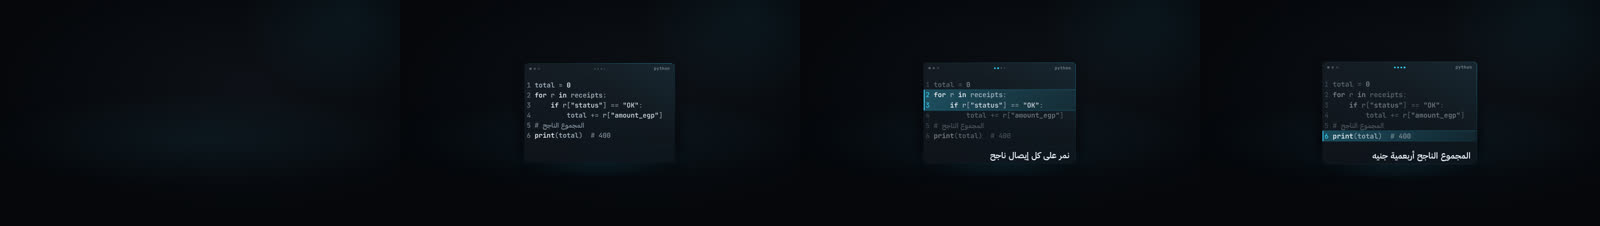
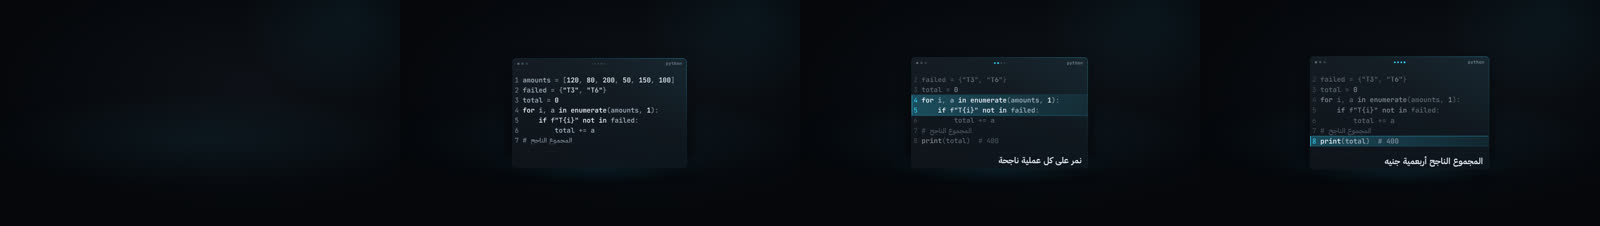
P7 code-media: CodeTrace finished (whole-row scroll with edge fade, CH-27 receipts demo from d:5.2; snap PASS det 0, baselines pending-critic; perf lite 0.059 / standard 0.076 / hero 0.072 box s/frame; Arabic QA PASS)
Claude-Session: https://claude.ai/code/session_01VrU9wxU8GmuhdhWAAHnnQ8

diff --git a/studio/src/demos/code-media.tsx b/studio/src/demos/code-media.tsx
@@ -49,7 +49,7 @@ const demos: DemoModule = {
       },
     },
     {
-      // CH-27 receipts (data contract 5.2: the OK receipts T1 120 + T2 80 + T4 50 + T5 150 = 400 EGP, d:5.2:8). The cursor steps on the
+      // CH-27 receipts (data contract 5.2: rows d:5.2:1..6 are the six transactions, amounts 120, 80, 200, 50, 150, 100, T3 and T6 FAILED; the OK ones sum to 400 EGP, d:5.2:8). The cursor steps on the
       // spoken lines; the Arabic comment is a whole-word run inside the code; the footer note is one whole Arabic phrase per step.
       name: 'CodeTrace',
       frames: 150,
@@ -69,16 +69,16 @@ const demos: DemoModule = {
             props: {
               id: 'trace',
               lang: 'python',
-              code: 'total = 0\nfor r in receipts:\n    if r["status"] == "OK":\n        total += r["amount_egp"]\n# المجموع الناجح\nprint(total)  # 400',
+              code: 'amounts = [120, 80, 200, 50, 150, 100]\nfailed = {"T3", "T6"}\ntotal = 0\nfor i, a in enumerate(amounts, 1):\n    if f"T{i}" not in failed:\n        total += a\n# المجموع الناجح\nprint(total)  # 400',
               highlights: [
-                {lines: [1, 1], at: {word: CT(2), lead_frames: 2}, note_ar: 'نبدأ المجموع من صفر'},
-                {lines: [2, 3], at: {word: CT(3), lead_frames: 2}, note_ar: 'نمر على كل إيصال ناجح'},
-                {lines: [6, 6], at: {word: CT(5), lead_frames: 2}, note_ar: 'المجموع الناجح أربعمية جنيه'},
+                {lines: [1, 2], at: {word: CT(2), lead_frames: 2}, note_ar: 'ست عمليات، اتنين منهم فشلوا'},
+                {lines: [4, 5], at: {word: CT(3), lead_frames: 2}, note_ar: 'نمر على كل عملية ناجحة'},
+                {lines: [8, 8], at: {word: CT(5), lead_frames: 2}, note_ar: 'المجموع الناجح أربعمية جنيه'},
               ],
             },
             at: {word: CT(1), lead_frames: 2},
           },
-          {component: 'CodeTrace.step', props: {target: 'trace', line: 4}, at: {word: CT(4), lead_frames: 2}},
+          {component: 'CodeTrace.step', props: {target: 'trace', line: 6}, at: {word: CT(4), lead_frames: 2}},
         ],
       },
     },

diff --git a/studio/src/components/CodeTrace/CodeTrace.tsx b/studio/src/components/CodeTrace/CodeTrace.tsx
@@ -92,10 +92,16 @@ export const CodeTraceView: React.FC<DcProps<Props>> = ({props, ctx}) => {
   const bp = band(prev) ?? bc;
   const top = bc && bp ? bp[0] + (bc[0] - bp[0]) * q : 0;
   const bot = bc && bp ? bp[1] + (bc[1] - bp[1]) * q : 0;
-  // scroll window follows the band centre, clamped to the block
-  const scrollOf = (b: [number, number] | null) => (b ? Math.min(Math.max(0, nRows - vis), Math.max(0, (b[0] + b[1]) / 2 - vis / 2)) : 0);
+  // scroll window follows the band centre, clamped to the block, in whole rows (a settled window never cuts a row in half)
+  const scrollOf = (b: [number, number] | null) => (b ? Math.min(Math.max(0, nRows - vis), Math.max(0, Math.round((b[0] + b[1]) / 2 - vis / 2))) : 0);
   const sc0 = scrollOf(bp);
   const scroll = bc ? sc0 + (scrollOf(bc) - sc0) * q : 0;
+  // rows that run off the window while it travels fade out over 0.45 row instead of being cut by the hard edge (text-safe mask)
+  const fadePx = rowH * 0.45;
+  const fTop = fadePx * Math.min(1, scroll);
+  const fBot = fadePx * Math.min(1, nRows - vis - scroll);
+  const winH = vis * rowH;
+  const edgeMask = fTop > 0.5 || fBot > 0.5 ? `linear-gradient(180deg, transparent 0px, #000 ${fTop.toFixed(1)}px, #000 ${(winH - fBot).toFixed(1)}px, transparent ${winH}px)` : undefined;
   // brightness of row r: the weight of being inside the current / previous band
   const inside = (b: [number, number] | null, r: number) => (b && r >= b[0] && r < b[1] ? 1 : 0);
   const weight = (r: number) => (cur ? inside(bp, r) * (1 - q) + inside(bc, r) * q : 1);
@@ -130,7 +136,7 @@ export const CodeTraceView: React.FC<DcProps<Props>> = ({props, ctx}) => {
             })}
           </div>
         ) : null}
-        <div style={{height: vis * rowH, margin: `${L.pad}px 0`, overflow: 'hidden', position: 'relative'}}>
+        <div style={{height: vis * rowH, margin: `${L.pad}px 0`, overflow: 'hidden', position: 'relative', ...(edgeMask ? {WebkitMaskImage: edgeMask, maskImage: edgeMask} : {})}}>
           <div style={{position: 'absolute', left: 0, right: 0, top: 0, transform: `translateY(${(-scroll * rowH).toFixed(2)}px)`}}>
             {bc ? (
               <>

diff --git a/docs/p7/catalog_status/code-media.md b/docs/p7/catalog_status/code-media.md
@@ -5,5 +5,6 @@ Rows are added per component by the engineer who finishes it.
 | Component | Status | Evidence |
 |---|---|---|
 | Terminal | implemented | snap PASS det 0, baselines pending-critic (`studio/test/baselines/Terminal/`, strip `reports/p7/snap/Terminal.jpg`); perf box s/frame lite 0.060 / standard 0.075 / hero 0.095 (budgets 0.201 / 0.201 / 1.038), `reports/perf/components/Terminal.json`; qa arabic PASS (`reports/qa/arabic/Terminal.json`); demo = CH-34 Docker layer cache, 5 s / 57 s from d:6.7:1 and d:6.7:2. r2 polish for critic r1 non-blocking #1/#2: CACHED keyword in signal, spoken figures (5 s / 57 s) one ink step brighter (Tok.c colour override in _code-media/kit.tsx, additive). DOM-only (no WebGL), so every tier runs the same markup and the hero tier adds only the shot-level FX. |
+| CodeTrace | implemented | snap PASS det 0, baselines pending-critic (`studio/test/baselines/CodeTrace/`, strip `reports/p7/snap/CodeTrace.jpg`); perf box s/frame lite 0.059 / standard 0.076 / hero 0.072 (budgets 0.201 / 0.201 / 1.038), `reports/perf/components/CodeTrace.json`; qa arabic PASS (`reports/qa/arabic/CodeTrace.json`); demo = CH-27 receipts: six amounts 120, 80, 200, 50, 150, 100 with T3 and T6 failed (d:5.2:1..6), OK total 400 EGP (d:5.2:8). Visual verb: execution cursor of light (signal band + edge bar + light head) stepping on word anchors, progress pips, whole-phrase Arabic note per step in the footer; the window scrolls in whole rows and fades rows that run off the edge (text-safe mask). Distinct from Terminal (typed command/output log) and SqlStages (clause execution order). DOM-only, so all tiers share the markup; the hero tier adds only shot-level FX. |
 
 Engine note (Terminal): an `inset` box-shadow on a row of the code block made the 50 % frame non-deterministic (about 1,170 px of tile-seam differences over the backdrop) once the 100 % frame had been rendered in the same page. Row rims are therefore drawn as a background gradient layer, never as `box-shadow: inset`. Other components that combine a large masked backdrop with an inset shadow may see the same flake.
